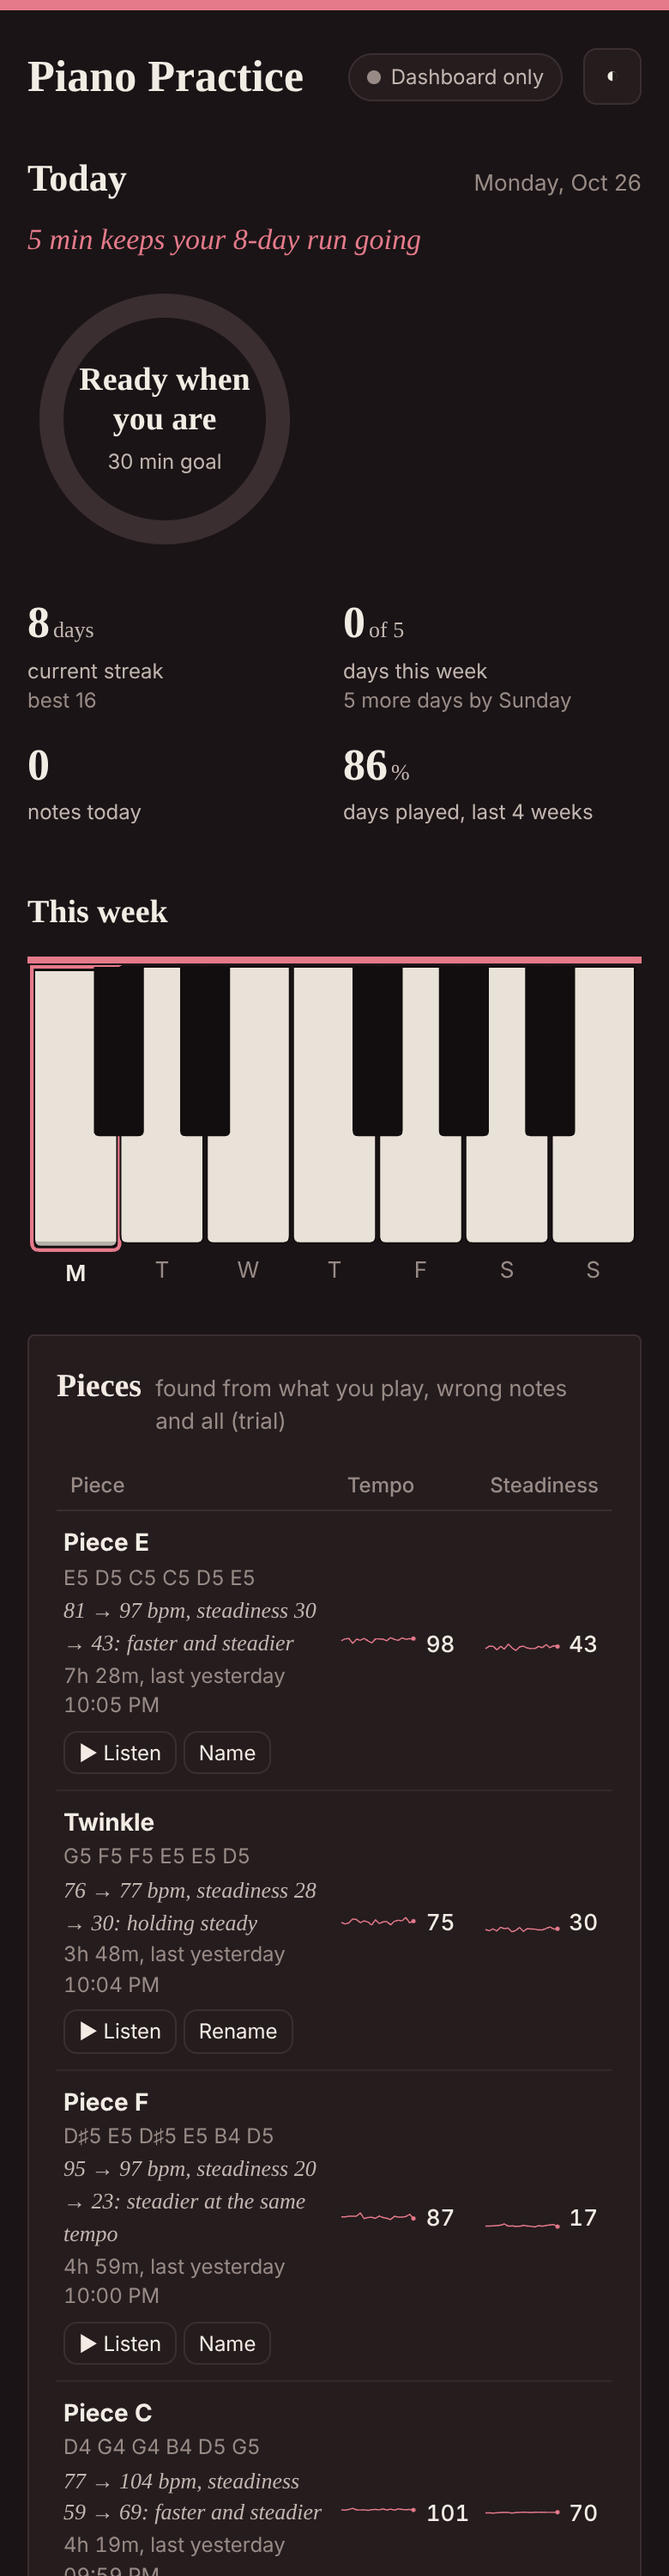
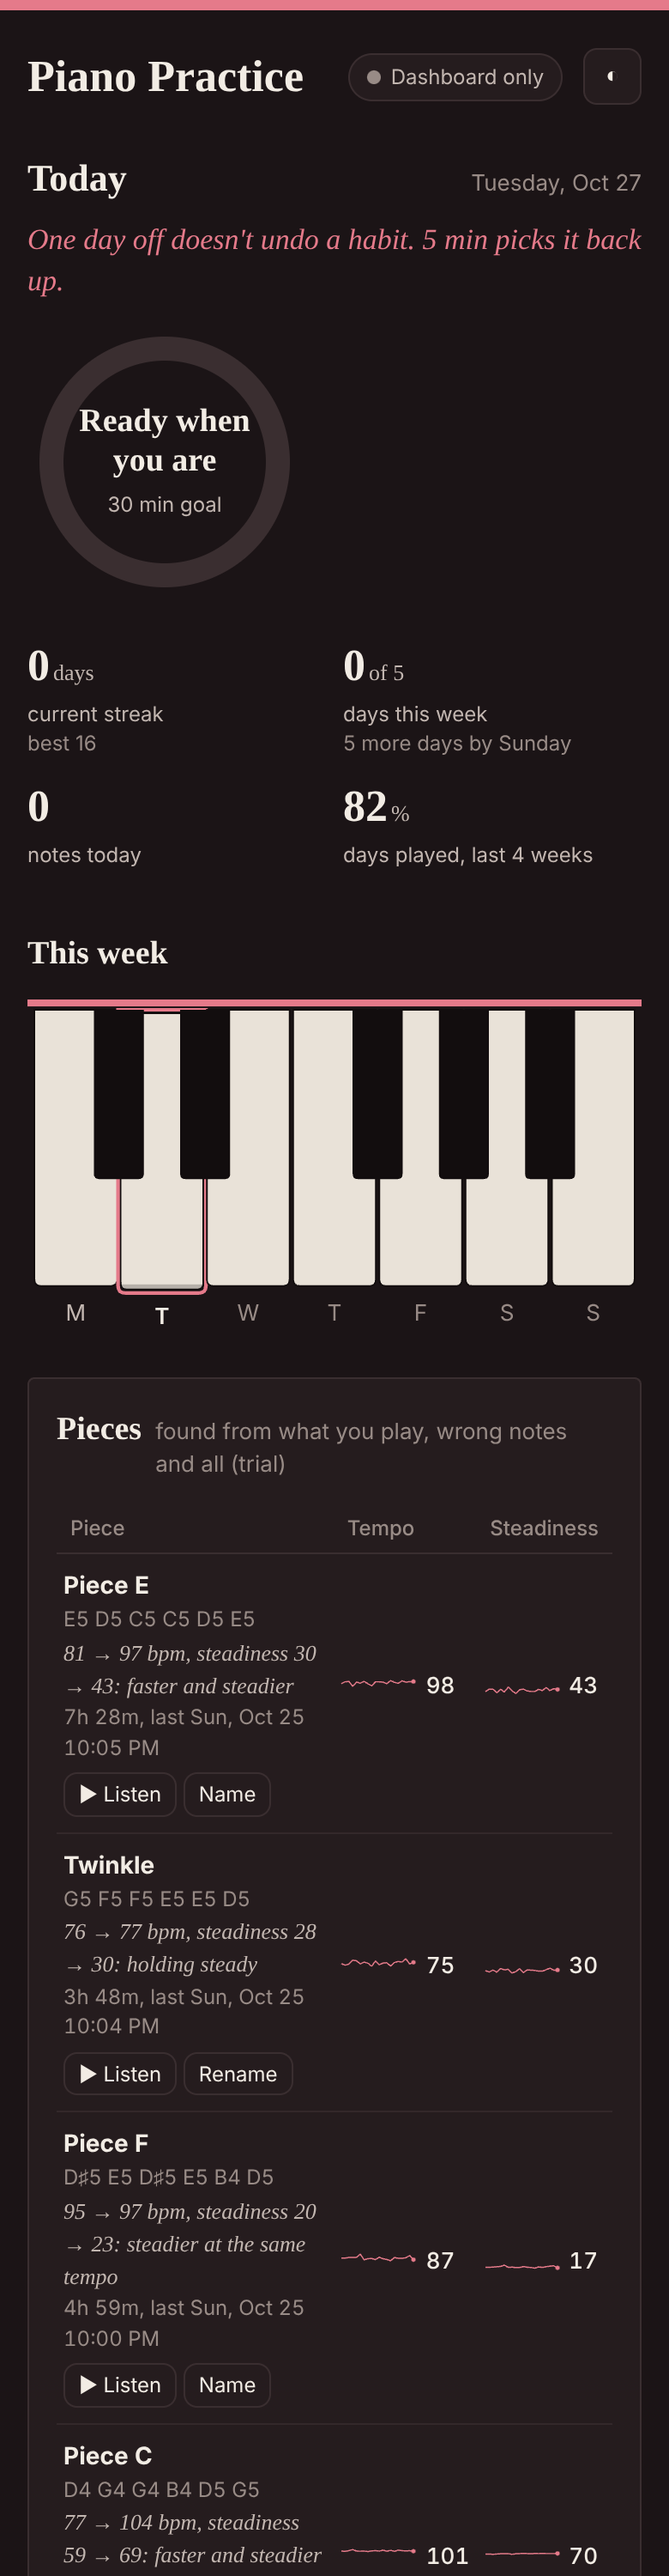
Today: on Mondays, how last week went
/api/summary gains last_week (Mondays only, else null): last Monday to
Sunday's played days against the weekly target, whether it was met, and time
played. Today shows it under the invite: "Last week: 6 of 5 days, 3h 10m.
Target met." prev_week_total_seconds stays as it was.

Claude-Session: https://claude.ai/code/session_01XCCUDBuyTevP1K1S3AtivC

diff --git a/pianotrack/static/index.html b/pianotrack/static/index.html
@@ -100,6 +100,9 @@ button:hover, .btn:hover { border-color: var(--muted); }
 .ring { position: relative; width: 160px; height: 160px; flex: none; }
 .goal-label { pointer-events: none; paint-order: stroke; stroke: var(--surface); stroke-width: 4px; stroke-linejoin: round; }
 .invite { font-family: var(--serif); font-style: italic; font-size: 17px; color: var(--accent); margin: -4px 0 12px; }
+.lastweek { font-size: 14px; color: var(--text-2); margin: -6px 0 12px; }
+.lastweek b { color: var(--good-text); font-weight: 600; }
+.lastweek[hidden] { display: none; }
 .ring .center { position: absolute; inset: 0; display: flex; flex-direction: column; align-items: center; justify-content: center; }
 .ring .big { font-family: var(--serif); font-size: 44px; font-weight: 600; line-height: 1; font-variant-numeric: lining-nums tabular-nums; }
 .ring .sub { font-size: 12px; color: var(--text-2); margin-top: 4px; }
@@ -260,6 +263,7 @@ footer a { color: var(--text-2); }
     <section class="card span-7 o-today">
       <h2>Today <span id="today-date"></span></h2>
       <p class="invite" id="t-invite"></p>
+      <p class="lastweek" id="t-lastweek" hidden></p>
       <div class="today">
         <div class="ring" id="ring"></div>
         <div class="tiles">
@@ -897,6 +901,14 @@ async function refresh() {
   $("today-date").textContent = new Date().toLocaleDateString(undefined, { weekday: "long", month: "short", day: "numeric" });
   ring(t.goal_pct, Math.round(t.active_seconds / 60), goalMin, t.active_seconds);
   $("t-invite").textContent = t.invite || "";
+  const lw = sum.last_week;
+  $("t-lastweek").hidden = !lw;
+  if (lw) {
+    $("t-lastweek").textContent = `Last week: ${lw.played} of ${lw.target} days, ${fmtDur(lw.active_seconds)}. `;
+    const end = document.createElement(lw.met ? "b" : "span");
+    end.textContent = lw.met ? "Target met." : lw.played ? "A fresh week starts today." : "A fresh week starts today, no catching up needed.";
+    $("t-lastweek").appendChild(end);
+  }
   $("t-streak").innerHTML = `${sum.streak.current}<small>${sum.streak.current === 1 ? "day" : "days"}</small>`;
   $("t-streak-best").textContent = `best ${sum.streak.longest}`;
   $("t-notes").textContent = fmtNum(t.notes);

diff --git a/tests/test_pipeline.py b/tests/test_pipeline.py
@@ -90,6 +90,18 @@ class MetricsTest(unittest.TestCase):
         self.assertEqual(metrics.week_days(days, 300, thu), 3)
         self.assertEqual(metrics.week_days({}, 300, thu), 0)
 
+    def test_last_week_counts_monday_to_sunday(self):
+        from datetime import date, timedelta
+        monday = date(2026, 10, 26)
+        days = {monday - timedelta(days=i): {"active_seconds": s}
+                for i, s in [(1, 600), (2, 60), (3, 400), (7, 900), (8, 900)]}
+        lw = metrics.last_week(days, 300, 2, monday)
+        self.assertEqual(lw, {"start": "2026-10-19", "played": 3, "target": 2, "met": True,
+                              "active_seconds": 1960})
+        # The same week seen from Sunday is "this week", so last week is the one before.
+        self.assertEqual(metrics.last_week(days, 300, 2, monday - timedelta(days=1))["start"], "2026-10-12")
+        self.assertFalse(metrics.last_week({}, 300, 2, monday)["met"])
+
     def test_invite_offers_the_next_small_step(self):
         inv = metrics.invite
         self.assertEqual(inv(0, 1800, 300, 9), "5 min keeps your 9-day run going")

diff --git a/pianotrack/metrics.py b/pianotrack/metrics.py
@@ -272,6 +272,20 @@ def invite(today_seconds: float, goal_seconds: float, streak_min_seconds: float,
     return f"{max(1, goal_min - round(today_seconds / 60))} min to your {goal_min} min goal"
 
 
+def last_week(days, min_seconds: float, target: int, today=None) -> dict:
+    """Last calendar week (Monday to Sunday): days with at least `min_seconds`,
+    whether that met the weekly `target`, and the time played.
+
+    Shown on Monday, when this week's octave is still empty.
+    """
+    today = today or date.today()
+    start = today - timedelta(days=today.weekday() + 7)
+    week = [days.get(start + timedelta(days=i), {}).get("active_seconds", 0) for i in range(7)]
+    played = sum(1 for s in week if s >= min_seconds)
+    return {"start": start.isoformat(), "played": played, "target": target,
+            "met": played >= target, "active_seconds": round(sum(week))}
+
+
 def week_days(days, min_seconds, today=None):
     """Days this calendar week (Monday to today) with at least `min_seconds`.
 

diff --git a/pianotrack/server.py b/pianotrack/server.py
@@ -130,6 +130,11 @@ class Api:
             "streak": streak,
             "week_days": {"played": metrics.week_days(days, settings["streak_min_minutes"] * 60, today),
                           "target": settings["weekly_days_target"]},
+            # Mondays only (the Pi's date, the day boundary everywhere): the week
+            # starts afresh, so say how last week went.
+            "last_week": (metrics.last_week(days, settings["streak_min_minutes"] * 60,
+                                            settings["weekly_days_target"], today)
+                          if today.weekday() == 0 else None),
             "consistency_28d": metrics.consistency(days, today),
             "totals": {"sessions": len(closed),
                        "active_seconds": round(sum(s["metrics"]["active_seconds"] for s in closed)),

diff --git a/README.md b/README.md
@@ -18,7 +18,7 @@ No phone app, no cloud, no extra Python packages.
 |---|---|
 | Active time | Time actually playing. Pauses longer than 3 s stop the clock, so reading the score doesn't count. |
 | This week | The week as an octave: seven white keys, Monday to Sunday, each filling with felt up to the daily goal and brass when it is met; today's key is outlined. Tap a key for its minutes. Plus days played this week against a weekly target (5 by default, set under Goals), which forgives a missed day the streak would not. |
-| Daily goal ring, streak, consistency | Minutes against your goal, consecutive days with at least 5 min, and the share of the last 28 days you played. A line above the ring names the next small step: "5 min keeps your 9-day run going", "24 min to your 30 min goal" or "Goal met today"; after one missed day it says "One day off doesn't undo a habit. 5 min picks it back up.", after a longer break "Welcome back. 5 min is a good start.", instead of greeting you with a zero. |
+| Daily goal ring, streak, consistency | Minutes against your goal, consecutive days with at least 5 min, and the share of the last 28 days you played. A line above the ring names the next small step: "5 min keeps your 9-day run going", "24 min to your 30 min goal" or "Goal met today"; after one missed day it says "One day off doesn't undo a habit. 5 min picks it back up.", after a longer break "Welcome back. 5 min is a good start.", instead of greeting you with a zero. On Mondays a line under it says how last week went, so a fresh week doesn't start from a blank octave: "Last week: 6 of 5 days, 3h 10m. Target met." |
 | Notes, notes per minute | Volume of playing and how dense it was while playing. |
 | Effort zones | Like heart-rate zones: time spent at Rest / Light / Moderate / Vigorous / Peak note density. |
 | Intensity and load | A 0 to 100 effort figure from density and loudness, and load = active minutes × intensity / 50. |
@@ -312,7 +312,7 @@ query values get 400 with an `error` message.
 
 | Endpoint | Returns |
 |---|---|
-| `GET /api/summary` | today (with `invite`, the line above the ring), week, streak, `week_days` (played and target, Monday to today), records, totals, live session, collector status |
+| `GET /api/summary` | today (with `invite`, the line above the ring), week, streak, `week_days` (played and target, Monday to today), `last_week` on Mondays only, else null (`start`, `played`, `target`, `met`, `active_seconds` for last Monday to Sunday), records, totals, live session, collector status |
 | `GET /api/status` | collector state: piano connected, device, last MIDI event |
 | `GET /api/auth` | `{"password_set": ..., "remote": ...}` whether a remote password exists and whether this request came through the tunnel |
 | `POST /api/password` | `{"password": "..."}` sets the remote-access password (home network only, 8+ characters) |
